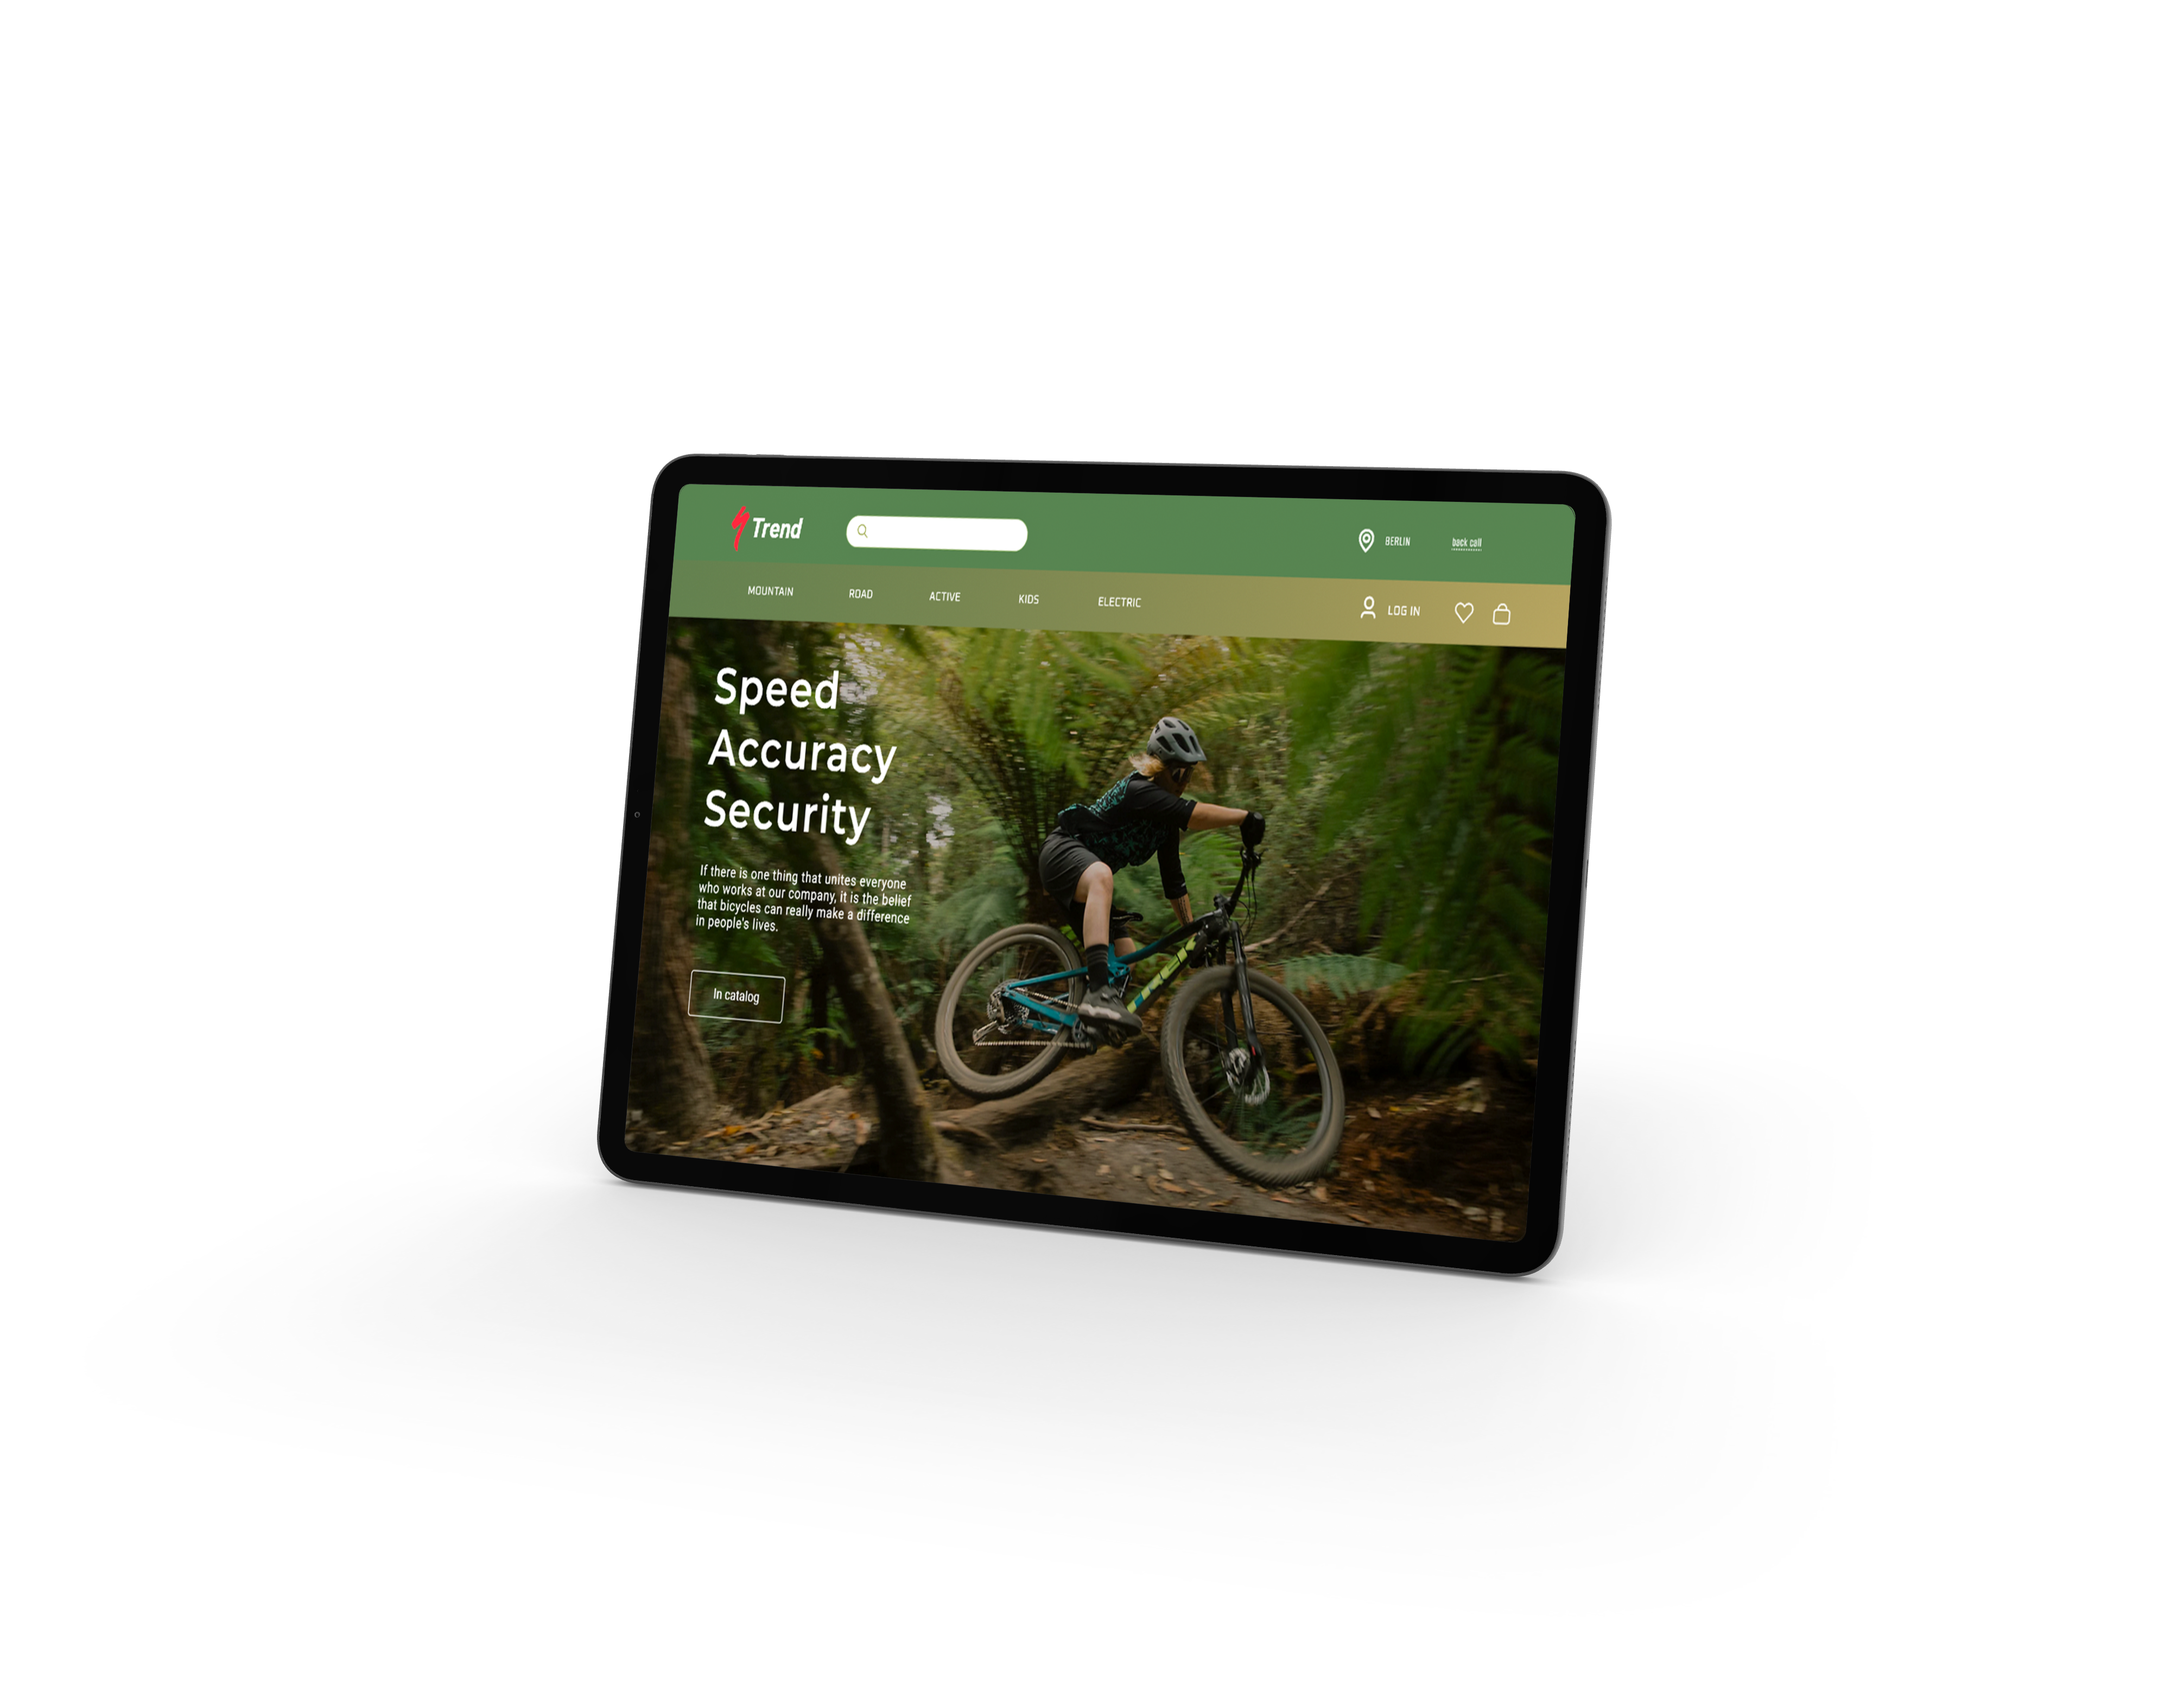
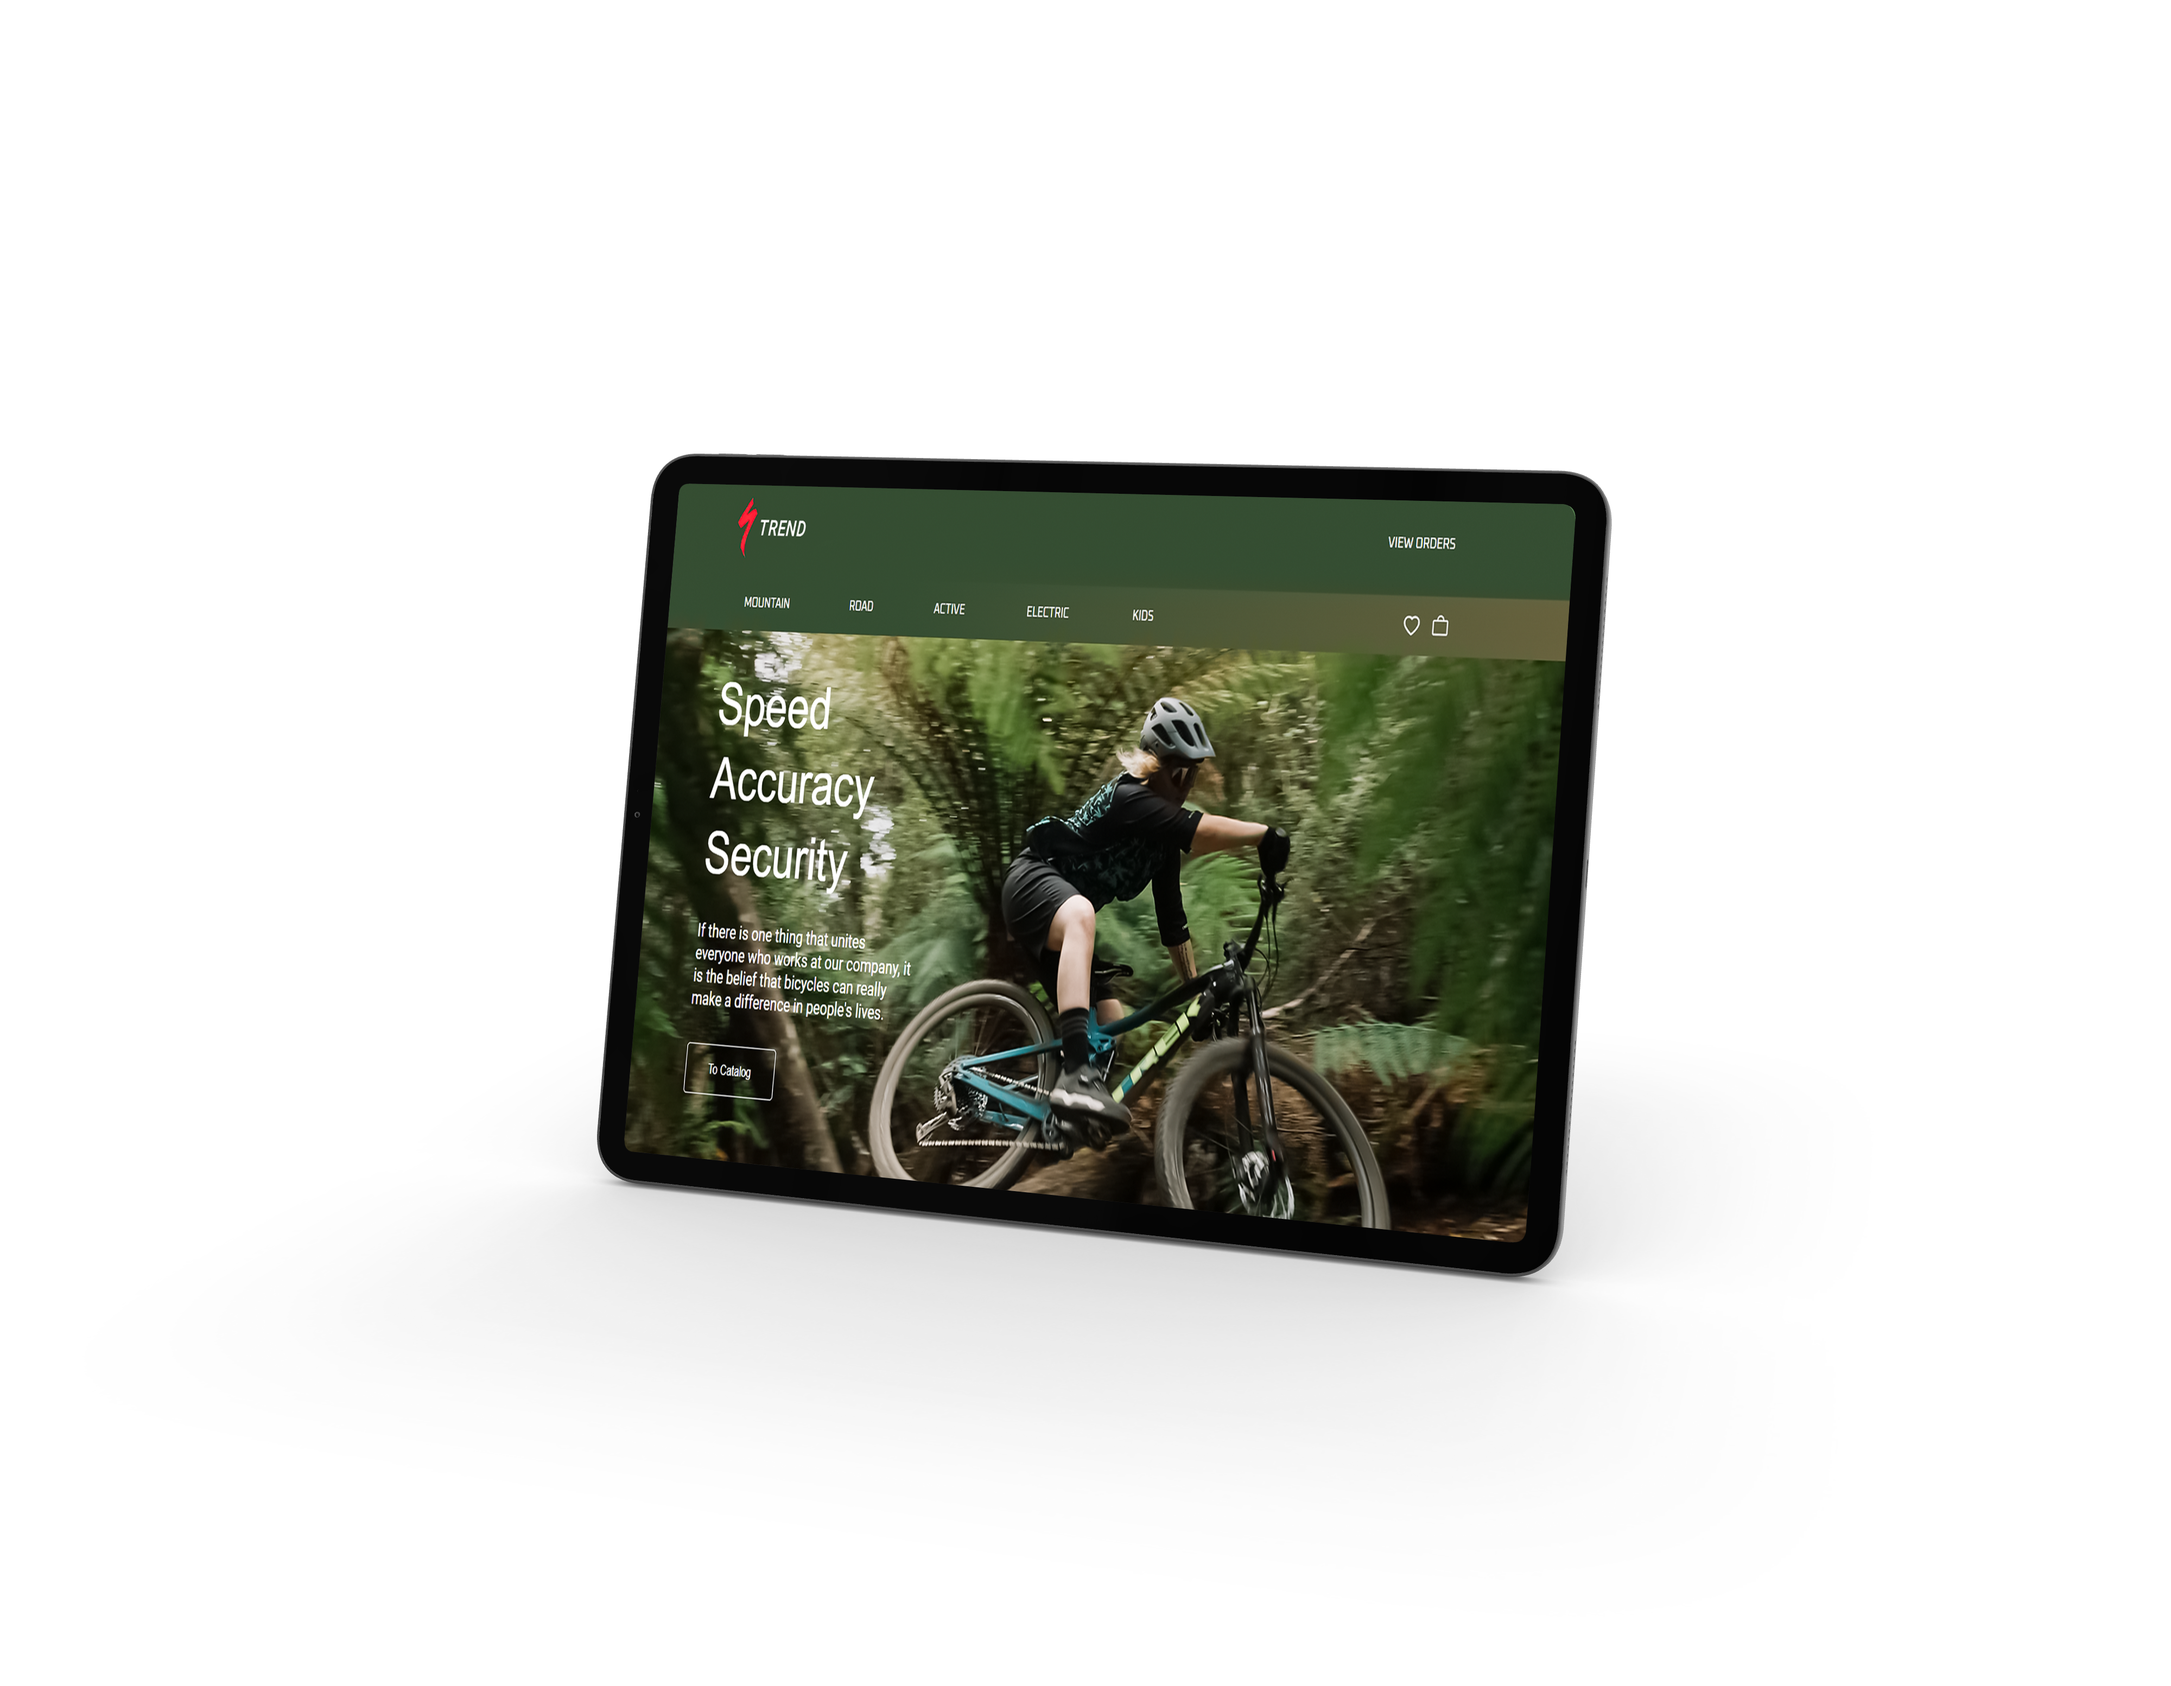
refactor: change photo

Changed region(s): [[0.2812, 0.281, 0.75, 0.7493]]

diff --git a/app/projects/[projectId]/page.tsx b/app/projects/[projectId]/page.tsx
@@ -15,7 +15,8 @@ const response = {
     time: "5 month",
     year: 2023,
     location: "Europe",
-    imgSrc: "https://github.com/SoftLion-Co/prototype-fr/blob/refactor/new-data/images/project/project-trend/trend-hero.png?raw=true",
+    imgSrc:
+      "https://github.com/SoftLion-Co/prototype-fr/blob/refactor/new-data/images/project/project-trend/trend-hero.png?raw=true",
   },
   RequestSection: {
     paragraph:
@@ -64,15 +65,16 @@ const response = {
     ],
     images: [
       {
-        imageSrc: "https://i.ibb.co/Pz2QWmc/main-page-2.png",
+        imageSrc:
+          "https://github.com/SoftLion-Co/prototype-fr/blob/test/images/project/project-trend/trend-hero.png?raw=true",
         class: "photo_discover",
       },
       {
-        imageSrc: "https://i.ibb.co/bHFC4n7/image-21.png",
+        imageSrc: "https://github.com/SoftLion-Co/prototype-fr/blob/test/images/project/project-trend/trend-basket.png?raw=true",
         class: "photo_about",
       },
       {
-        imageSrc: "https://i.ibb.co/19t1wHh/image-2.png",
+        imageSrc: "https://github.com/SoftLion-Co/prototype-fr/blob/test/images/project/project-trend/trend-delivery.png?raw=true",
         class: "photo_trevel",
       },
     ],
